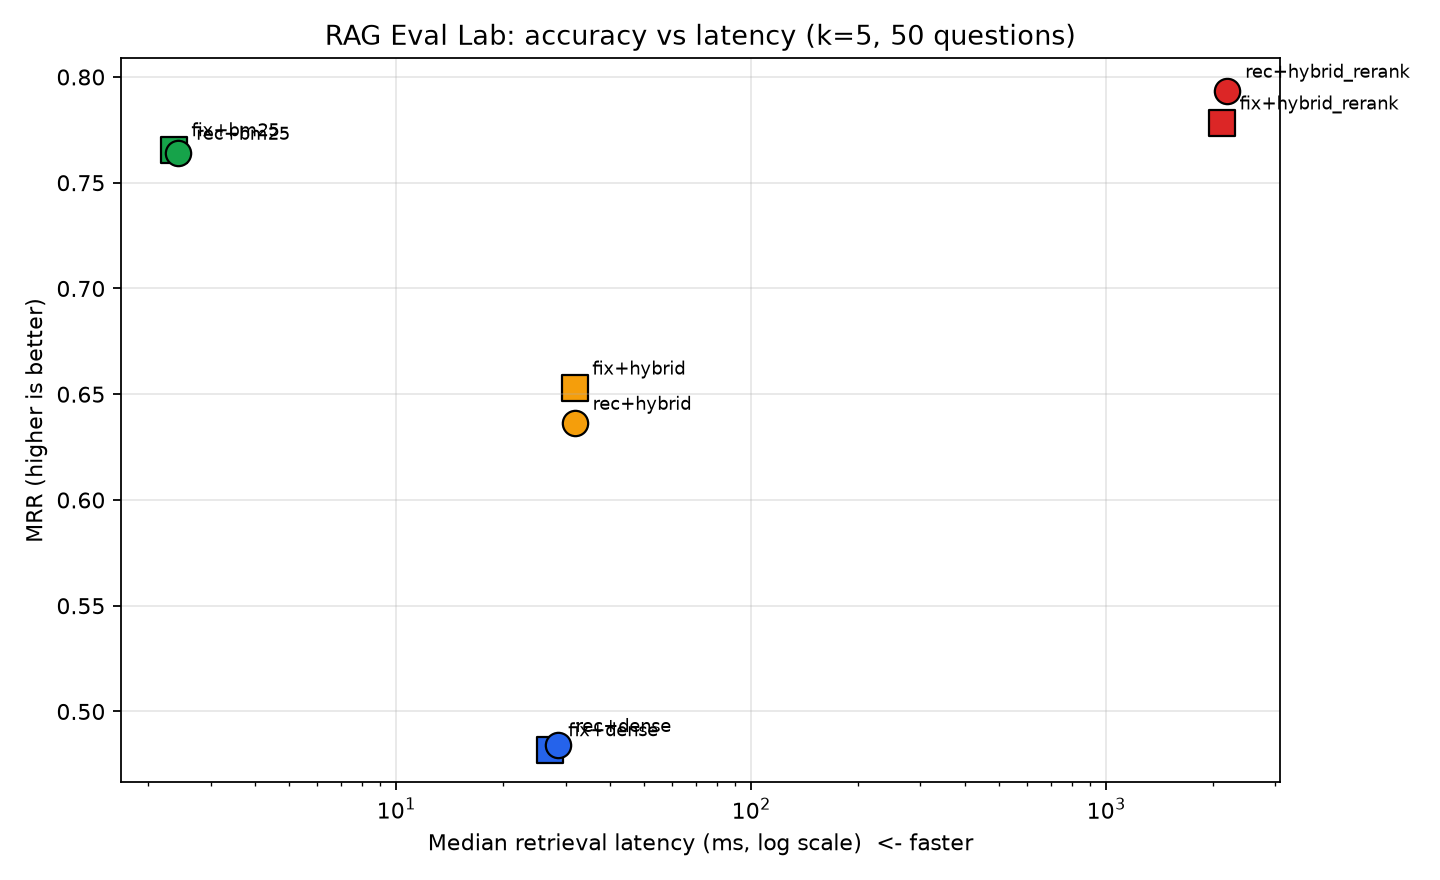
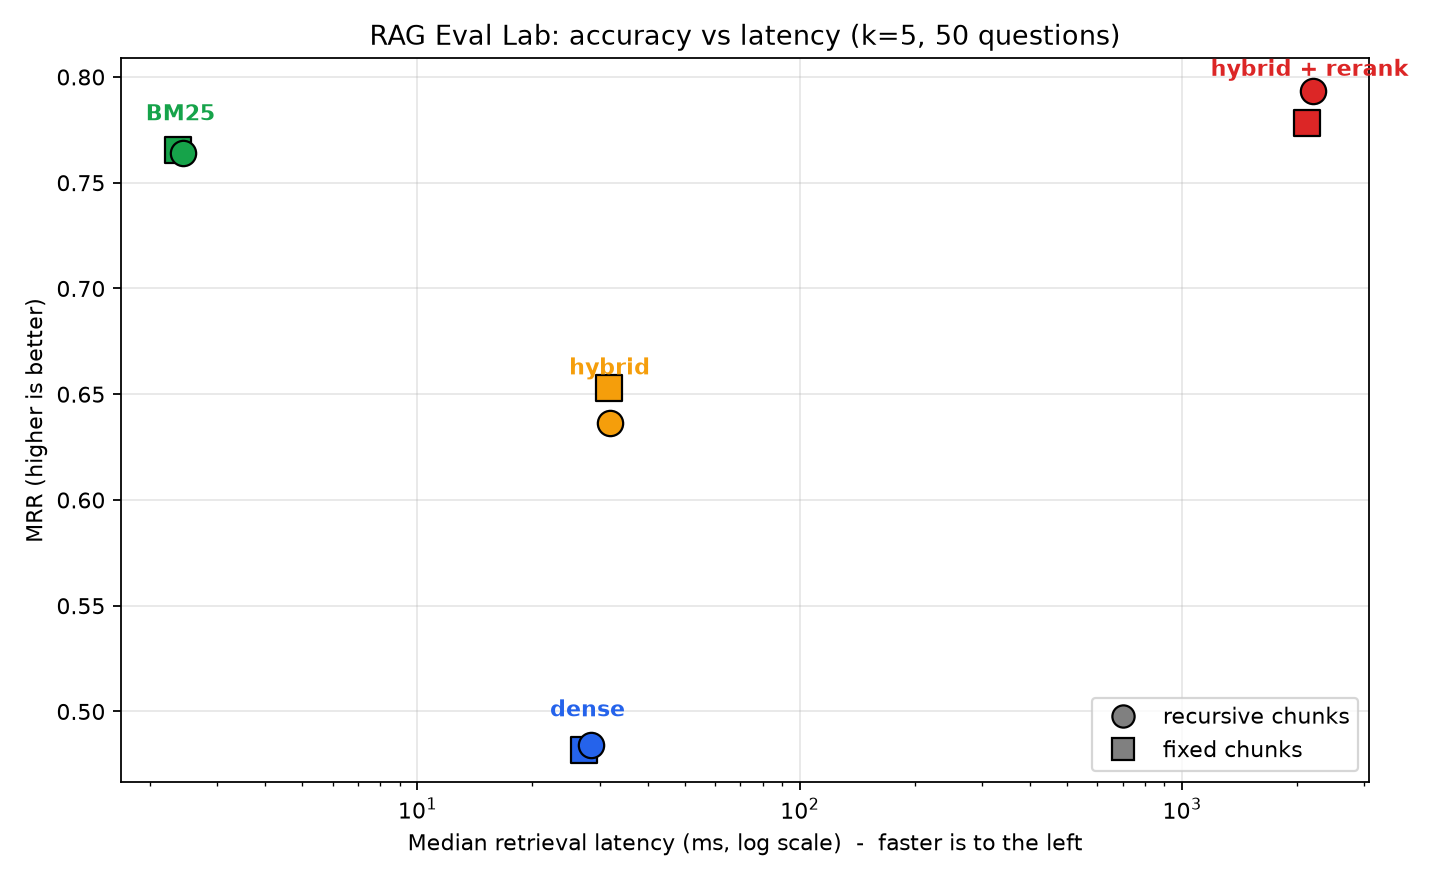
docs: cleaner accuracy vs latency chart

diff --git a/backend/make_chart.py b/backend/make_chart.py
@@ -2,24 +2,40 @@ import json
 from pathlib import Path
 
 import matplotlib.pyplot as plt
+from matplotlib.lines import Line2D
 
 ROOT = Path(__file__).resolve().parent.parent
 rows = json.loads((ROOT / "data" / "results.json").read_text(encoding="utf-8"))
 rows = [r for r in rows if r["k"] == 5]
 
 colors = {"dense": "#2563eb", "bm25": "#16a34a", "hybrid": "#f59e0b", "hybrid_rerank": "#dc2626"}
+names = {"dense": "dense", "bm25": "BM25", "hybrid": "hybrid", "hybrid_rerank": "hybrid + rerank"}
+
 fig, ax = plt.subplots(figsize=(9, 5.5))
 for r in rows:
     marker = "o" if r["chunker"] == "recursive" else "s"
-    ax.scatter(r["p50_ms"], r["mrr"], s=130, c=colors[r["retriever"]], marker=marker, edgecolors="black")
-    ax.annotate(f'{r["chunker"][:3]}+{r["retriever"]}', (r["p50_ms"], r["mrr"]),
-                textcoords="offset points", xytext=(8, 6), fontsize=8)
+    ax.scatter(r["p50_ms"], r["mrr"], s=130, c=colors[r["retriever"]],
+               marker=marker, edgecolors="black", zorder=3)
+
+# one label per retriever, placed at the average position of its two points
+for ret, color in colors.items():
+    pts = [r for r in rows if r["retriever"] == ret]
+    x = sum(p["p50_ms"] for p in pts) / len(pts)
+    y = sum(p["mrr"] for p in pts) / len(pts)
+    ax.annotate(names[ret], (x, y), textcoords="offset points", xytext=(0, 14),
+                ha="center", fontsize=10, fontweight="bold", color=color)
 
 ax.set_xscale("log")
-ax.set_xlabel("Median retrieval latency (ms, log scale)  <- faster")
+ax.set_xlabel("Median retrieval latency (ms, log scale)  -  faster is to the left")
 ax.set_ylabel("MRR (higher is better)")
 ax.set_title("RAG Eval Lab: accuracy vs latency (k=5, 50 questions)")
 ax.grid(alpha=0.3)
+ax.legend(handles=[
+    Line2D([0], [0], marker="o", color="w", markerfacecolor="gray", markeredgecolor="black",
+           markersize=10, label="recursive chunks"),
+    Line2D([0], [0], marker="s", color="w", markerfacecolor="gray", markeredgecolor="black",
+           markersize=10, label="fixed chunks"),
+], loc="lower right")
 fig.tight_layout()
 out = ROOT / "docs" / "accuracy_vs_latency.png"
 fig.savefig(out, dpi=160)
